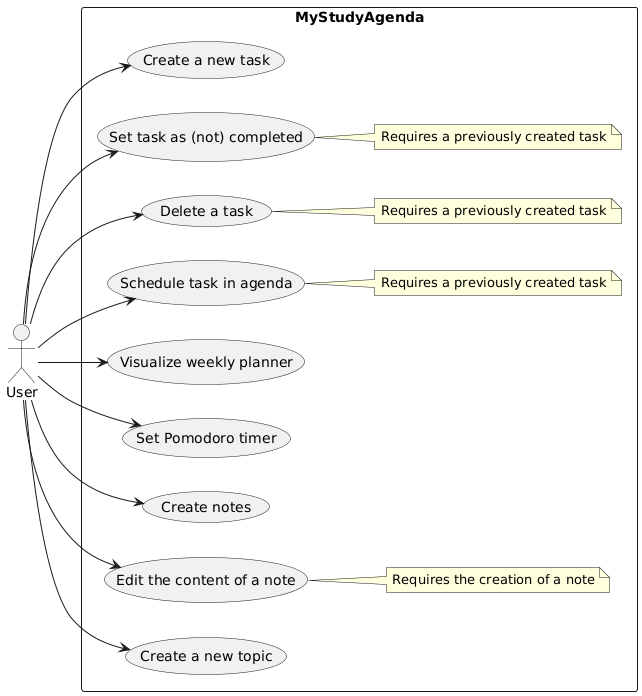
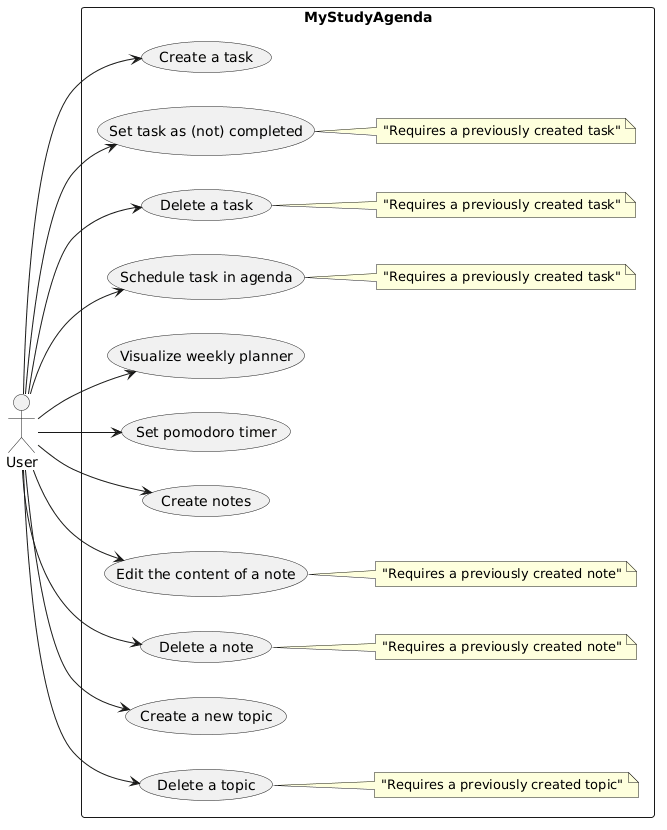
Adjusted sections 2-8

Changed region(s): [[0.0, 0.0, 0.9969, 0.9957], [0.0935, 0.4526, 0.1558, 0.4828], [0.1246, 0.9655, 0.1558, 0.9957]]

diff --git a/sections/08-cicd/index.md b/sections/08-cicd/index.md
@@ -20,10 +20,11 @@ The main goals of the CI/CD workflow are:
 The CI pipeline automatically executes:
 
 - **Unit tests** for model, DAO, controller, and non-GUI logic
-- **GUI tests** for the Kivy-based user interface
 - Tests across:
   - multiple operating systems (Linux, Windows, macOS)
   - multiple Python versions (3.10, 3.11, 3.12)
+
+While it skips **GUI tests** for the Kivy-based user interface, as GUI tests require a window provider and OpenGL context, which are not available in headless CI environments.
 
 The CI workflow is triggered on:
 - every `push` (excluding documentation-only files),
@@ -34,43 +35,30 @@ The CI workflow is triggered on:
 
 Automating testing ensures that:
 - platform-specific issues are detected early,
-- GUI-related regressions are caught despite the graphical nature of the application,
 - changes merged into the main branch preserve functional correctness.
-
-Given the complexity of testing a GUI framework like **Kivy**, the CI pipeline explicitly separates **logic tests** from **GUI tests**.
 
 ### How
 
-The CI workflow is defined in `check.yml` and is split into two jobs.
+The CI workflow is defined in `check.yml` and consists of a single, comprehensive testing job.
 
-#### Unit Tests Job
+#### Test Job
 
 - Runs on **Linux, Windows, and macOS**
-- Uses a **matrix strategy** for Python versions
-- Installs system-level dependencies required by Kivy (on Linux only)
-- Installs project dependencies via **Poetry**
-- Executes tests marked as *non-UI*:
+- Uses a **matrix strategy** to test across Python versions 3.10, 3.11, and 3.12
+- Installs essential system-level dependencies required by Kivy on Linux runners, such as `libsdl2-dev` and `libgl1-mesa-dev`
+- Manages environment isolation and project dependencies via **Poetry**
+- Executes the full suite of tests using `pytest`:
 
     ```bash
-    pytest -m "not ui"
+    poetry run pytest
     ```
 
-This job focuses on:
-- business logic,
-- persistence layer,
+This job focuses on validating:
+- business logic (Model layer),
+- persistence layer (DAO),
 - controllers,
-- non-graphical components.
-
-GUI Tests Job
-- Runs only if unit tests succeed
-- Executes on Ubuntu for maximum stability
-- Uses Xvfb (X virtual framebuffer) to simulate a display server
-- Runs tests explicitly marked as UI tests:
-    ```bash
-    xvfb-run -a pytest -m "ui"
-    ```
-
-This approach allows automated testing of Kivy screens and widgets in a headless CI environment.
+- non-graphical components and general logic,
+- system functioning through all the layers.
 
 #### Environment variables
 
@@ -78,15 +66,13 @@ Several environment variables are configured to adapt Kivy to CI execution:
 
 `KIVY_NO_ARGS=1` – prevents Kivy from parsing command-line arguments
 
-`KIVY_NO_CONSOLELOG=1` – disables verbose logging
+`KIVY_BACKEND=offscreen` – forces Kivy to use an offscreen rendering backend, bypassing the need for a display server
 
-`KIVY_LOG_LEVEL=error` – reduces log noise
-
-`PYTHONPATH=.` – ensures correct module resolution
+`PYTHONPATH=.` – ensures correct module resolution so that the package can be imported during testing
 
 `CI=true` – signals execution inside a CI environment
 
-Dependency caching is also enabled to speed up repeated workflow runs.
+The job also includes a concurrency configuration to automatically cancel redundant runs on the same branch or PR, optimizing resource usage.
 
 ## Continuous Deployment (CD)
 
@@ -118,5 +104,5 @@ The CD workflow is defined in deploy.yml and performs the following steps:
 
 ### Secrets and permissions
 The CD pipeline relies on two main secrets:
-* `TEST_PYPI_TOKEN`,which is used to authenticate the publication to TestPyPI
+* `TEST_PYPI_TOKEN`, which is used to authenticate the publication to TestPyPI
 * `GITHUB_TOKEN`, which is automatically provided by GitHub Actions and used to create GitHub Releases

diff --git a/sections/06-release/index.md b/sections/06-release/index.md
@@ -8,26 +8,22 @@ nav_order: 7
 ## Produced artefacts
 
 The project produces a single software artefact: a Python application called **MyStudyAgenda**.
-The application is packaged as a Python package using **Poetry**, which generates both a source
-distribution (`sdist`) and a built distribution (`wheel`).
+The application is packaged as a Python package using **Poetry**, which generates both a source distribution (`sdist`) and a built distribution (`wheel`).
 
-No additional artefacts (e.g. Docker images or separate libraries) are produced, since the project
-is designed as a single, self-contained desktop application.
+No additional artefacts (e.g. Docker images or separate libraries) are produced, since the project is designed as a single, self-contained desktop application.
 
 
 ## Distribution platforms
 
 The artefact is intended to be released on **TestPyPI**.
-This choice allows validating the packaging and release process in a safe environment before
-publishing on the official PyPI repository.
+This choice allows validating the packaging and release process in a safe environment before publishing on the official PyPI repository.
 
 Additionally, each release is published as a **GitHub Release**, which contains:
 - the packaged artefacts
 - the corresponding version tag
 - the changelog associated with the release
 
-GitHub was chosen because it is the main repository hosting the project and integrates seamlessly
-with GitHub Actions.
+GitHub was chosen because it is the main repository hosting the project and integrates seamlessly with GitHub Actions.
 
 ---
 
@@ -35,9 +31,8 @@ with GitHub Actions.
 
 The release process is **manual but automated**.
 
-A dedicated GitHub Actions workflow (`deploy.yml`) is responsible for building and releasing the
-artefacts. The workflow is triggered only when:
-- a version tag following semantic versioning (e.g. `v0.1.0`) is pushed, or
+A dedicated GitHub Actions workflow (`deploy.yml`) is responsible for building and releasing the artefacts. The workflow is triggered only when:
+- a version tag following semantic versioning (e.g. `v1.2.3`) is pushed, or
 - the workflow is manually triggered via `workflow_dispatch`.
 
 The release workflow performs the following steps:
@@ -66,29 +61,18 @@ It allows reuse, modification, and redistribution of the software with minimal r
 The project follows **Semantic Versioning (SemVer)**.
 
 Each version is expressed in the form MAJOR.MINOR.PATCH, where
-
 - MAJOR versions indicate incompatible or major changes
 - MINOR versions introduce new features while maintaining backward compatibility
 - PATCH versions contain bug fixes and small improvements
-
-Since the project produces a single artefact, a single version number is used for the entire system.
 
 ## Creating a new release
 
 The project follows a lightweight but structured release process.
 
-Before creating a new release, the `CHANGELOG.md` file is manually updated to summarize
-the changes introduced since the previous version. Each release entry follows the
-Semantic Versioning convention and includes a brief description of new features,
-improvements, and fixes.
+Before creating a new release, the `CHANGELOG.md` file is manually updated to summarize the changes introduced since the previous version. Each release entry follows the Semantic Versioning convention and includes the release date and a brief description of new features, improvements, fixes.
 
-Once the changelog is updated, the version number in `pyproject.toml` is aligned with
-the intended release version. A Git tag matching the version number (e.g. `v0.1.0`)
-is then created and pushed to the remote repository (with the terminal commands `git tag v0.1.0` and `git push origin v0.1.0` respectively).
+Once the changelog is updated, the version number in `pyproject.toml` is aligned with the intended release version. A Git tag matching the version number (e.g. `v1.2.3`) is then created and pushed to the remote repository (with the terminal commands `git tag v1.2.3` and `git push origin v1.2.3` respectively).
 
-Pushing the tag automatically triggers the release workflow, which builds and publishes the artefact
-and creates a corresponding GitHub Release.
+Pushing the tag automatically triggers the release workflow, which builds and publishes the artefact and creates a corresponding GitHub Release.
 
-Pushing a version tag automatically triggers the Continuous Deployment workflow,
-which builds and publishes the artefact
-and creates a corresponding GitHub Release using the contents of the `CHANGELOG.md`.
+Pushing a version tag automatically triggers the Continuous Deployment workflow, which builds and publishes the artefact and creates a corresponding GitHub Release using the contents of the `CHANGELOG.md`.

diff --git a/sections/02-requirements/index.md b/sections/02-requirements/index.md
@@ -10,8 +10,9 @@ nav_order: 3
 
 - As a student, I want to create, tick as completed and delete tasks so that I can keep track of my study activities.  
 - As a student, I want to assign priorities and time slots to tasks so that I can better plan my weekly schedule.
-- As a student, I want to visualize my scheduled tasks in a weekly planner so that I have a clear idea of how my days are organized.   
-- As a student, I want to create and organize notes under specific topics so that I can easily retrieve study materials.  
+- As a student, I want to visualize my scheduled tasks in a weekly planner so that I have a clear idea of how my days are organized.
+- As a student, I want to create and delete topics to assign to specific tasks and notes to better organize them.   
+- As a student, I want to create, edit and delete notes so that I can easily retrieve study materials.  
 - As a student, I want to use a Pomodoro timer so that I can study in focused sessions with breaks.  
 - As a student, I want to view my tasks and notes in a simple, clear interface so that I can quickly access what I need. 
 
@@ -26,18 +27,18 @@ nav_order: 3
    - *Acceptance criteria*: user can add a task, modify it, and remove it; the changes must be reflected immediately in the task list.
 
 2. The system must allow the creation, update, and deletion of notes.  
-   - *Acceptance criteria*: user can add a note, modify it, and remove it.
+   - *Acceptance criteria*: user can add a note, modify it, and remove it; the changes must be reflected immediately in the notes list.
 
-3. The system must support topic creation and allow associating tasks and notes with topics.  
-   - *Acceptance criteria*: user can create a topic; tasks and notes linked to it must show the topic’s name.  
+3. The system must support topic creation and deletion and allow associating tasks and notes with topics.  
+   - *Acceptance criteria*: user can create a topic and remove it; tasks and notes linked to it must show the topic’s name.  
 
 4. The system must provide a weekly planner to visualize scheduled tasks.  
-   - *Acceptance criteria*: the planner shows tasks distributed across the days of the week, based on their scheduled time slot; in the planner, tasks are represented as rectangles with different colours based on their priority (green for low, yellow for medium, red for high priority).
+   - *Acceptance criteria*: the planner shows tasks distributed across the days of the week, based on their scheduled time slot; in the planner, tasks are represented as rectangles with different colours based on their priority (green for low, yellow for medium, red for high priority) and indicate task's description and (if any) the associated topic.
 
 5. The system must provide a Pomodoro timer with customizable study and break durations.  
-   - *Acceptance criteria*: user can start a Pomodoro session, see the countdown, and be notified when a session ends. User can also interrupt the timer. 
+   - *Acceptance criteria*: user can start a Pomodoro session, see the countdown, and be notified by an alert dialog when a session ends. User can also interrupt the Pomodoro session. 
 
-6. The system must update the graphical interface immediately after each operation (e.g. task/note creation, deletion).  
+6. The system must update the graphical interface immediately after each operation (e.g. task/note/topic creation, deletion).  
    - *Acceptance criteria*: no manual refresh is required; the UI reflects the latest data.  
 
 ### Non-functional requirements
@@ -54,13 +55,13 @@ nav_order: 3
 ### Implementation requirements
 
 1. The system must be developed in Python.  
-   - *Motivation*: requirement of the Software Engineering course.  
+   - *Motivation*: Cross-platform language with a vast ecosystem of open-source libraries, significantly reducing development time compared to languages like C++ or Java. Its high readability and widespread adoption make it ideal for open-source collaboration and rapid prototyping.
 
-2. The application must use Kivy / KivyMD for the graphical user interface.  
-   - *Motivation*: ensures cross-platform compatibility and allows a native-like GUI in Python.  
+2. The application must use Kivy for the graphical user interface.  
+   - *Motivation*: Ensures cross-platform compatibility and allows a native-like GUI in Python.  
 
 3. The application must use SQLite for local data persistence.  
-   - *Motivation*: lightweight relational database, easy to embed and distribute with the application.  
+   - *Motivation*: Lightweight relational database, easy to embed and distribute with the application.  
 
 ## Glossary
 

diff --git a/sections/03-design/index.md b/sections/03-design/index.md
@@ -6,7 +6,7 @@ nav_order: 4
 
 # Design
 
-This chapter explains the strategies used to meet the requirements identified in the analysis. 
+This chapter explains the strategies used to meet the requirements identified in the previous section. 
 
 It describes the chosen architecture, the responsibilities of each component, how data is modelled and stored, and how the pieces interact at runtime.
 
@@ -17,15 +17,15 @@ MyStudyAgenda is a single-machine desktop application with a graphical user inte
 - **Domain layer (Model)**: business objects (Task, Topic, Note) and pure domain logic
 - **Persistence layer (DAO/Database)**: DAOs that abstract SQLite operations
 - **Application layer (Controller)**: controllers that implement use cases and orchestrate DAOs and models
-- **Presentation layer (View)**: UI screens, popups and widgets implemented with Kivy and KivyMD
+- **Presentation layer (View)**: UI screens, popups and widgets implemented with Kivy
 
-A layered approach fits well for a standalone desktop app: it provides clarity, testability and a straightforward mapping to the codebase structure implemented (app.view, app.controller, app.model, app.db). Other styles (microservices, event-based distributed architectures) would be overkill for this application because the system runs locally without networked components.
+A layered approach fits well for a standalone desktop app: it provides clarity, testability and a straightforward mapping to the codebase structure implemented. Other styles (microservices, event-based distributed architectures) would be overkill for this application because the system runs locally without networked components.
 
 ### Chosen concrete architecture
 The adopted architecture is an N-tier (4-layer) architecture described above. Each layer has restricted dependencies: the UI depends on controllers; controllers depend on models and DAOs; DAOs depend on the database driver. This keeps coupling low and makes unit testing easier (controllers and DAOs can be tested in memory).
 
 ### High-level component overview
-Below is a simple component diagram (made with PlantUML) showing major pieces:
+Below is a simple component diagram showing major pieces:
 
 >Component Diagram
 <img src="../../pictures/ComponentDiagram.png" style="width: 40%; height: auto;">
@@ -104,10 +104,10 @@ There is no network I/O and no inter-process communication. Interaction patterns
 ## Behaviour
 
 ### Components behaviour summary
-- **UI**: reacts to user events (on_text, on_release) and calls controllers. Stateless with respect to domain except for temporary UI state (selected spinner item, inputs)
-- **Controllers**: stateless from request perspective, they perform operations and return results. They encapsulate transactional boundaries: e.g. create_task calls DAO and interprets result
-- **DAOs**: stateful as they hold a DB connection; they ensure atomic commits for modifications
-- **Models**: may hold state (e.g. is_completed) and expose domain methods to mutate themselves
+- **UI**: reacts to user events (on_text, on_release) and calls controllers. Stateless with respect to domain except for temporary UI state (selected spinner item, inputs).
+- **Controllers**: stateless from request perspective, they perform operations and return results. They encapsulate transactional boundaries: e.g. create_task calls DAO and interprets result.
+- **DAOs**: stateful as they hold a DB connection; they ensure atomic commits for modifications.
+- **Models**: may hold state (e.g. is_completed) and expose domain methods to mutate themselves.
 
 ### Which components update state
 - DAOs perform persistence updates (INSERT, UPDATE, DELETE). Controllers call DAOs when a use case requires a state change.
@@ -122,9 +122,9 @@ Pomodoro timer uses `Clock.schedule_interval` for ticking; it is UI-bound and pu
 ## Data-related aspects
 
 ### Data to be stored
-- Tasks: id, description, topic_id, priority, completion state, scheduled date, start/end times.
+- Tasks: id, description, topic id, priority, completion state, scheduled date, start/end times.
 - Topics: id, name.
-- Notes: id, title, topic_id, content, created_at timestamp.
+- Notes: id, title, topic id, content, created_at timestamp.
 
 These are user personal data stored locally. There is no authentication or multi-user support.
 
@@ -150,6 +150,6 @@ Controllers obtain domain objects from DAOs and pass them to UI. No server-side 
 ## Notes about extensibility and future improvements
 The software was voluntarily primarily developed to be a simple offline desktop application, exactly because of its main objective: increasing focus and productivity for students. With respect to this goal, being forced to use internet connection could be detrimental.
 
-However, for future improvements it could be cconsidered the fact that a user might want to see his tasks, notes and planner on multiple devices. If multi-device syncronization or remote storage were required, a local SQLite database would no longer be suitable. Instead, other technologies should be used (e.g. Google Firebase). In this case, an authentication procedure would be necessary and, preferably, encryption of each user’s personal data, including their individual tasks and notes.
+However, for future improvements it could be considered the fact that a user might want to see his tasks, notes and planner on multiple devices. If multi-device syncronization or remote storage were required, a local SQLite database would no longer be suitable. Instead, other technologies should be used (e.g. Google Firebase). In this case, an authentication procedure would be necessary and, preferably, encryption of each user’s personal data, including their individual tasks and notes.
 
 Moreover, for richer scheduling or recurring tasks, domain model would need additional fields and business rules.

diff --git a/sections/05-validation/index.md b/sections/05-validation/index.md
@@ -23,22 +23,21 @@ Different testing frameworks were adopted depending on the nature of the compone
 The **Model**, **DAO**, and **Controller** layers were tested exclusively using the `unittest` framework.  
 These components implement pure business logic and data access logic, are deterministic, and do not depend on external runtime environments or graphical subsystems. For this reason, the standard Python testing framework was considered sufficient and appropriate.
 
-However, the **View layer**, implemented using Kivy/KivyMD, required a different approach. GUI components depend on an event-driven architecture, a graphical event loop, and platform-specific initialization. While the test cases themselves are still structured as `unittest.TestCase` classes, the `pytest` framework was introduced as a test runner for the View tests.
+However, the **View layer**, implemented using Kivy, required a different approach. GUI components depend on an event-driven architecture, a graphical event loop, and platform-specific initialization. While the test cases themselves are still structured as `unittest.TestCase` classes, the `pytest` framework was introduced as a test runner for the View tests.
 
 The use of `pytest` was motivated by:
 - improved compatibility with Continuous Integration environments,
 - better control over environment variables and headless execution,
-- support for test markers to distinguish UI tests,
-- reliable execution of GUI-related tests across different operating systems.
+- support for test markers to distinguish UI tests.
 
 In summary, for the View layer `pytest` provided better support for fixtures, markers and CI execution, which helped address issues related to GUI testing in a headless environment.
 
 This hybrid approach allows the project to:
 - keep unit tests simple and standard where possible,
-- use a more flexible and robust testing infrastructure only where required by the GUI framework.
+- use a more flexible and robust testing infrastructure where required by the GUI framework.
 
 ## Testing (automated)
-Each group of tests is directly related to the functional requirements associated with task or note management, data persistence, and user interaction.
+Each group of tests is directly related to the functional requirements associated with task, note or topic management, data persistence, and user interaction.
 
 ### Unit testing
 
@@ -85,7 +84,7 @@ While full end-to-end testing with real user input and persistent storage was ou
 Manual acceptance tests were conducted to validate user-facing functionality, including:
 - creating and managing tasks (scheduling them, marking them as completed/not completed, deleting them)
 - creating and managing notes (editing the content of notes, deleting them)
-- creating and assigning topics
+- creating, managing and assigning topics
 - navigating between screens
 - verifying correct persistence of data across application runs
 

diff --git a/sections/07-deployment/index.md b/sections/07-deployment/index.md
@@ -17,6 +17,11 @@ This section explains how to set up **MyStudyAgenda** on a local machine. Here a
    ```bash
    python --version
    ```
+   on Windows and Linux, or
+    ```bash
+   python3 --version
+   ```
+   on MacOS.
 
 ## 1. Standard Installation (Recommended)
 The easiest way to install the application is via **TestPyPI**. This method automatically handles dependencies without requiring you to download the source code manually.
@@ -36,7 +41,7 @@ The easiest way to install the application is via **TestPyPI**. This method auto
 
 3. **Run the application**:
     ```bash
-    python -m MyStudyAgenda
+    python -m mystudyagenda
     ```
 
 ## 2. Manual Release Download
@@ -45,7 +50,7 @@ If you prefer not to use a package manager, you can download the source artifact
 1. Go to the [GitHub Releases](https://github.com/unibo-dtm-se-2425-MyStudyAgenda/artifact/releases) page.
 2. Download the .zip or .tar.gz archive from the latest version tag.
 3. Extract the archive.
-4. Install the requirements and run as described in the section below.
+4. Install the requirements and run as described in the section below (starting from step 2).
 
 ## 3. Developer Installation (Source Code)
 Use this method if you want to modify the code or contribute to the project. This requires Poetry, the project's dependency manager.

diff --git a/sections/04-development/index.md b/sections/04-development/index.md
@@ -29,7 +29,7 @@ This makes the development history easier to read and maintain, even for future 
 - **Programming language**: The software was developed in **Python**, due to its readability, wide adoption in education, and strong ecosystem for GUI development and testing.
 
 - **Frameworks and libraries**:  
-  - **Kivy** and **KivyMD**: for building the cross-platform desktop GUI with a modern look and feel.  
+  - **Kivy**: for building the cross-platform desktop GUI with a simple and clean look.  
   - **SQLite**: for local data persistence.  
   - **unittest / pytest**: for testing the application components.
 